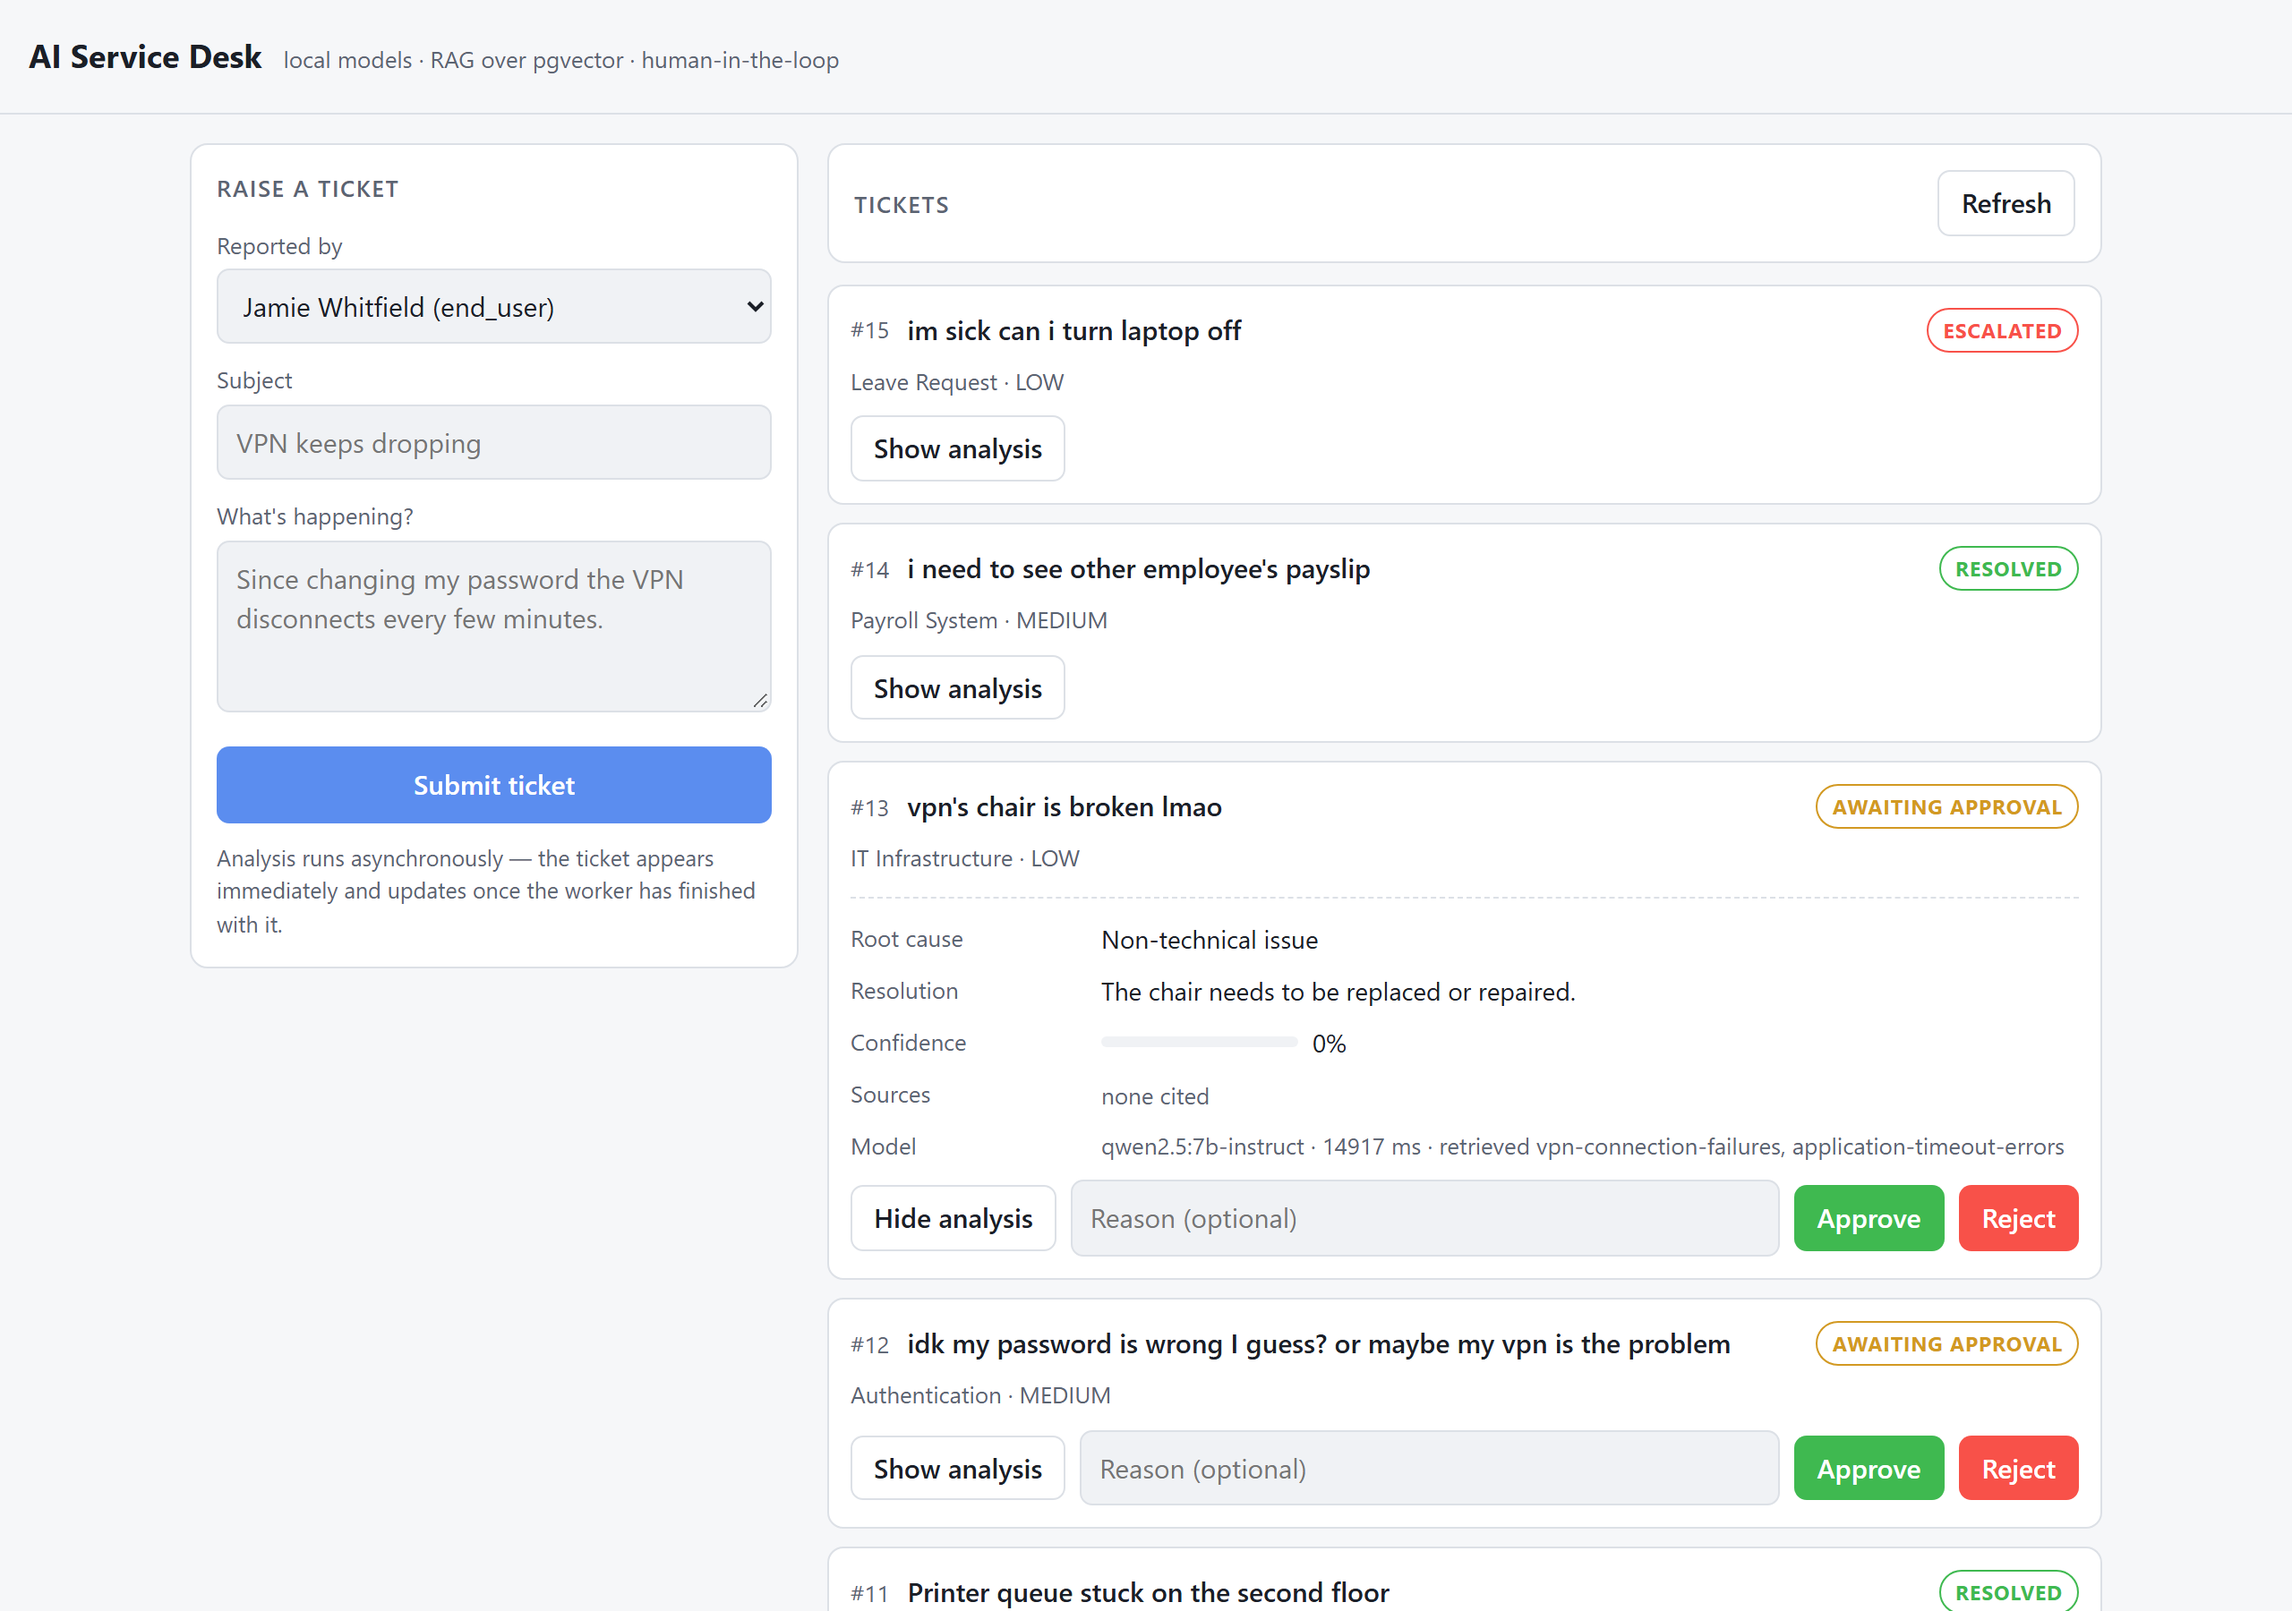
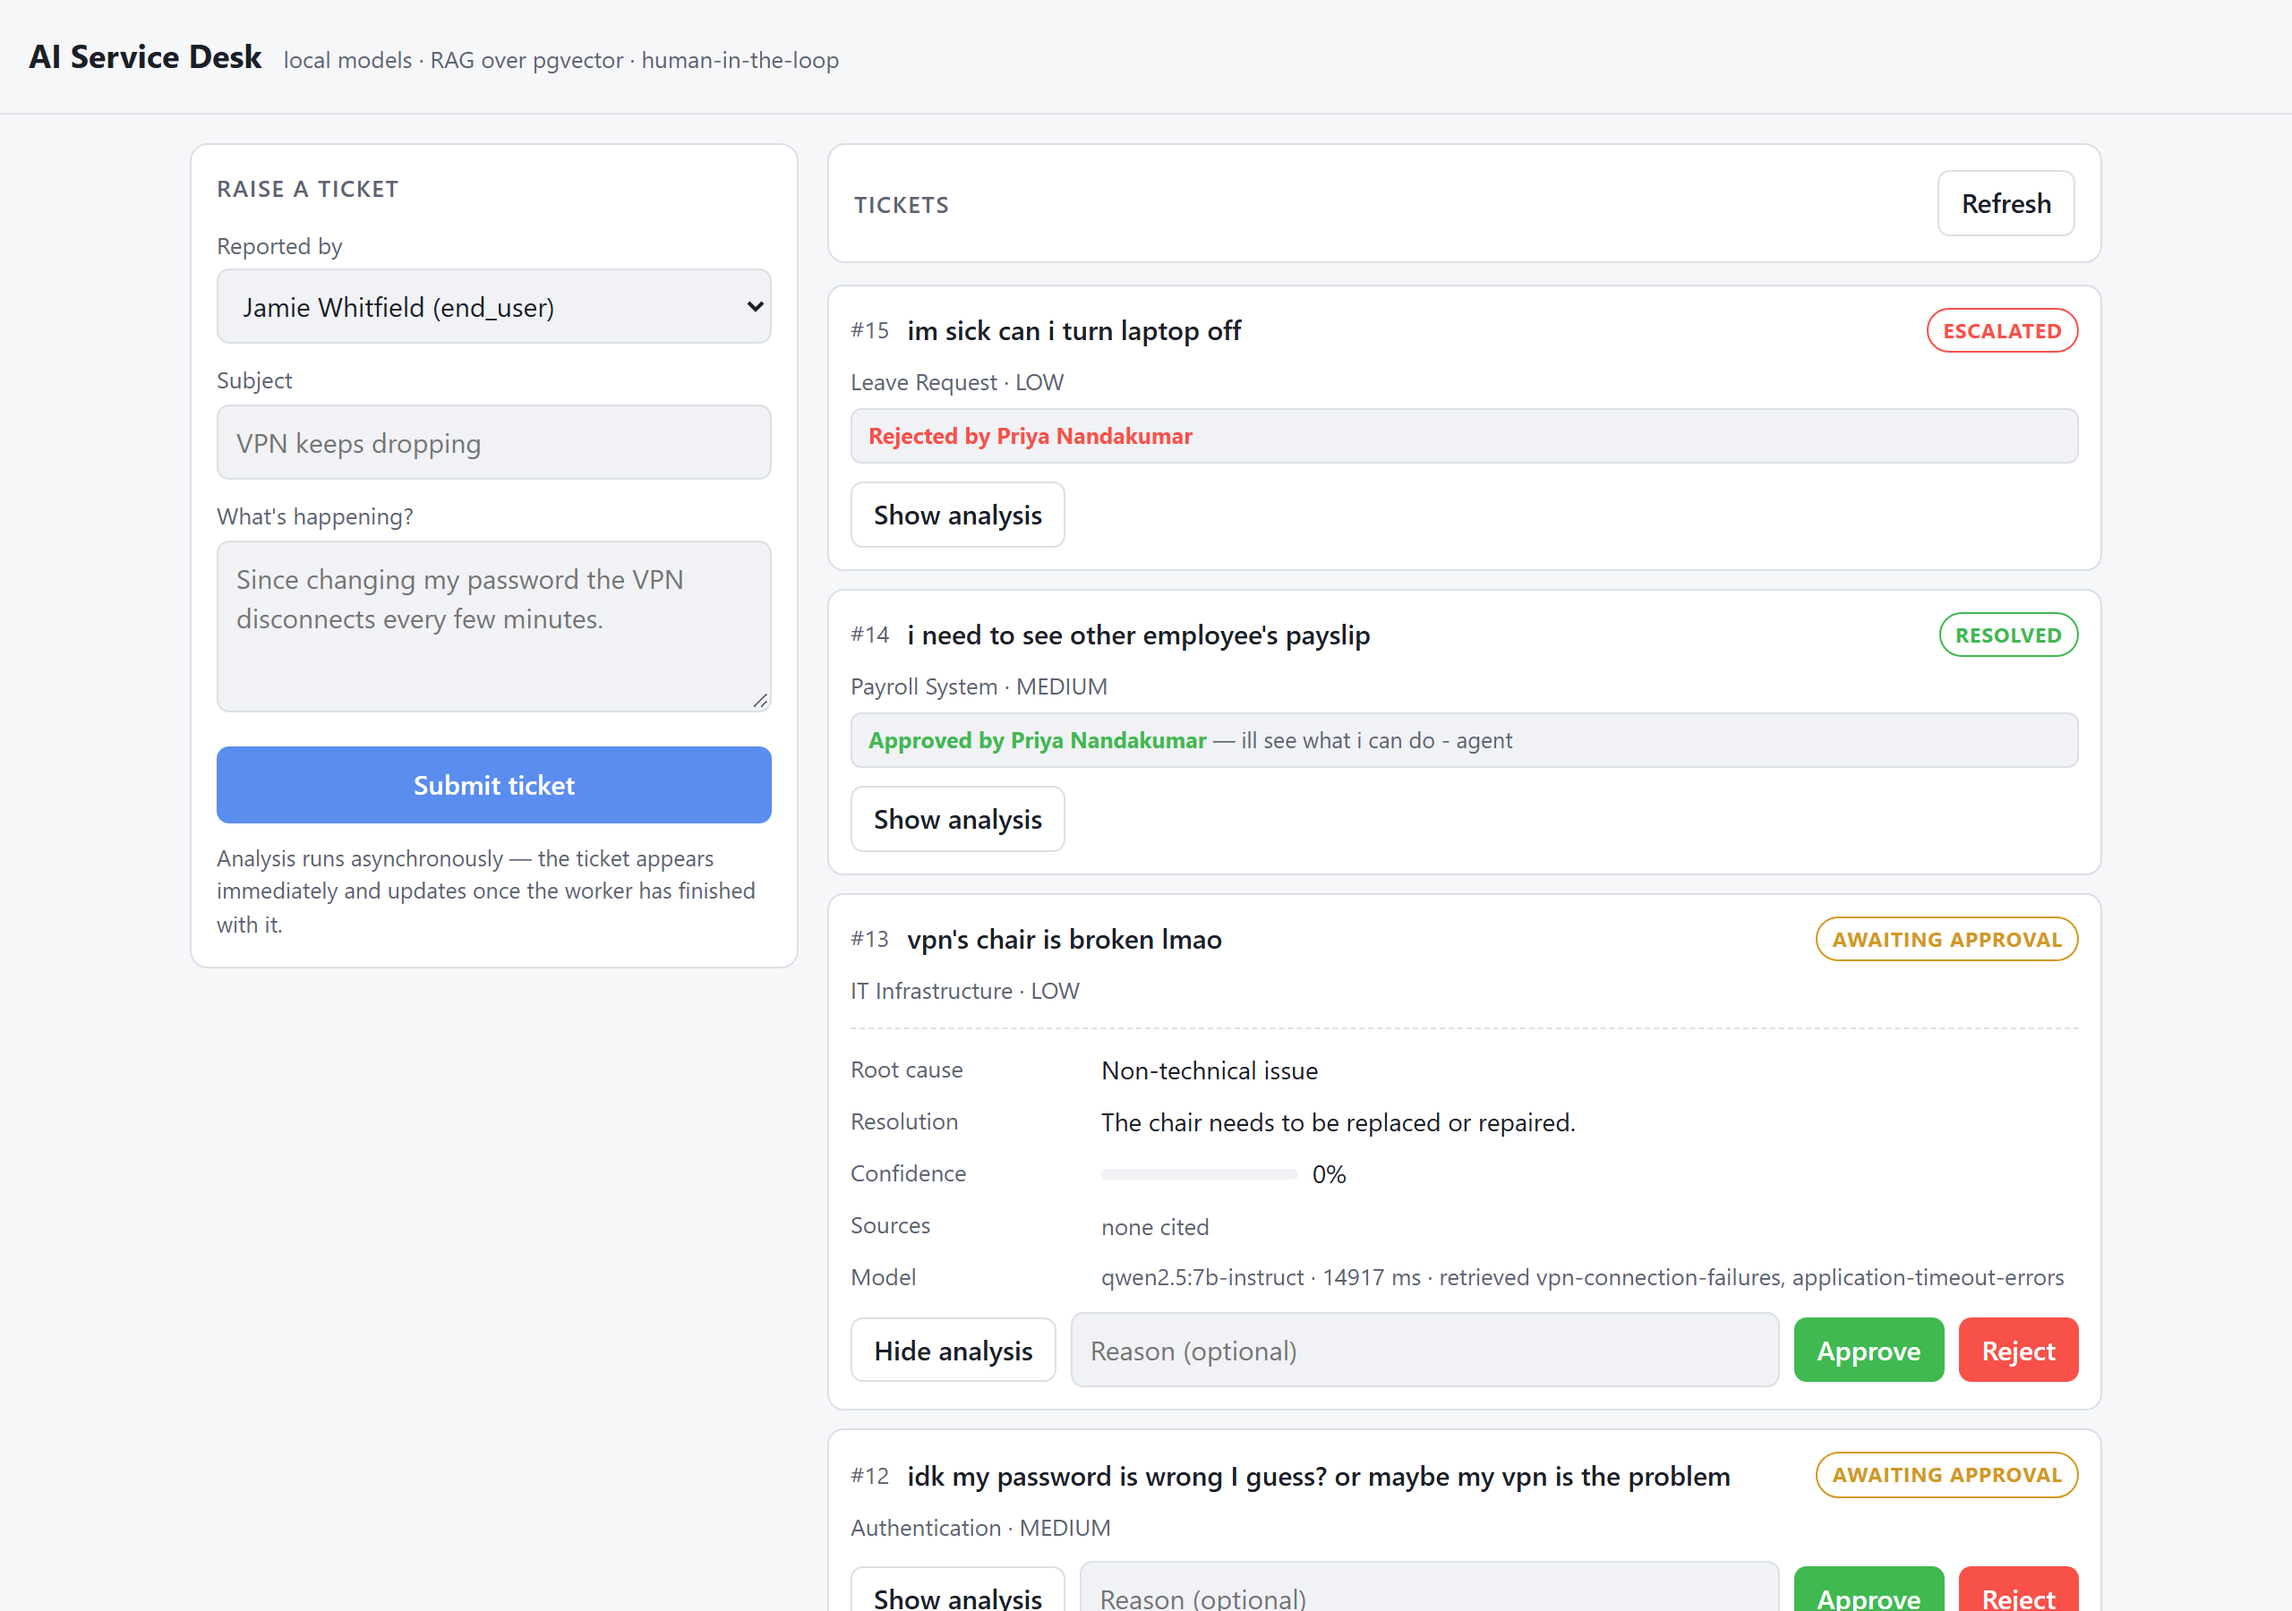
Show who decided a ticket, not just that it was decided
A RESOLVED ticket looked identical whether the AI recommended it or an agent
signed it off. That is the single distinction a human-in-the-loop system most
needs to make visible, and it was only recoverable from the audit log - the
gap became obvious the moment a screenshot of the ticket list was put next to
the audit trail for the same ticket.

GET /approvals returns every decision with the decider's name already joined,
so rendering a list costs one query rather than one per row. The UI now shows
"Approved by <name> - <reason>", "Rejected by <name> - <reason>", or
"Auto-recommended - no human review required" for anything the gate let
through on its own.

Tests cover the name being resolved, and a decision recorded without a
decided_by_id still appearing - an outer join, so an anonymous decision is not
silently dropped from the log.

diff --git a/api/app/static/index.html b/api/app/static/index.html
@@ -72,6 +72,12 @@
   .empty { color: var(--muted); padding: 24px; text-align: center; }
   .err { color: var(--bad); font-size: 13px; margin-top: 8px; }
   .note { color: var(--muted); font-size: 12.5px; margin-top: 10px; }
+  .decided { font-size: 12.5px; margin-top: 6px; padding: 5px 9px; border-radius: 6px; background: var(--panel-2); border: 1px solid var(--line); }
+  .decided b { font-weight: 650; }
+  .decided.approved b { color: var(--ok); }
+  .decided.rejected b { color: var(--bad); }
+  .decided .why { color: var(--muted); }
+  .by-ai { font-size: 12.5px; color: var(--muted); margin-top: 6px; }
 </style>
 </head>
 <body>
@@ -113,6 +119,7 @@
 <script>
 const $ = (s) => document.querySelector(s);
 const analysisCache = {};
+let approvalsByTicket = {};
 
 async function api(path, options) {
   const res = await fetch(path, options);
@@ -154,6 +161,24 @@ function analysisHtml(run) {
   </div>`;
 }
 
+function decisionHtml(t) {
+  const a = approvalsByTicket[t.id];
+  if (a) {
+    // Who actually decided this. Without it, a RESOLVED ticket looks the same
+    // whether the AI recommended it or a person signed it off - which is the
+    // one thing a human-in-the-loop system must not hide.
+    const verb = a.decision === "APPROVED" ? "Approved" : "Rejected";
+    const cls = a.decision === "APPROVED" ? "approved" : "rejected";
+    const who = esc(a.decided_by_name) || "someone";
+    const why = a.reason ? ` <span class="why">— ${esc(a.reason)}</span>` : "";
+    return `<div class="decided ${cls}"><b>${verb} by ${who}</b>${why}</div>`;
+  }
+  if (t.status === "RESOLVED") {
+    return `<div class="by-ai">Auto-recommended — no human review required</div>`;
+  }
+  return "";
+}
+
 function ticketHtml(t, run) {
   const awaiting = t.status === "AWAITING_APPROVAL";
   return `<div class="ticket" data-id="${t.id}">
@@ -163,6 +188,7 @@ function ticketHtml(t, run) {
       <span class="badge b-${esc(t.status)}">${esc(t.status.replace(/_/g, " "))}</span>
     </div>
     <div class="meta">${esc(t.category) || "uncategorised"}${t.priority ? " · " + esc(t.priority) : ""}</div>
+    ${decisionHtml(t)}
     ${analysisHtml(run)}
     <div class="actions">
       <button class="ghost toggle">${analysisCache[t.id] ? "Hide" : "Show"} analysis</button>
@@ -174,7 +200,10 @@ function ticketHtml(t, run) {
 }
 
 async function render() {
-  const tickets = await api("/tickets");
+  const [tickets, approvals] = await Promise.all([api("/tickets"), api("/approvals")]);
+  // Newest first from the API, so the first one seen per ticket is the latest.
+  approvalsByTicket = {};
+  for (const a of approvals) if (!approvalsByTicket[a.ticket_id]) approvalsByTicket[a.ticket_id] = a;
   const el = $("#tickets");
   if (!tickets.length) { el.innerHTML = `<div class="empty">No tickets yet.</div>`; return; }
   el.innerHTML = tickets.map((t) => ticketHtml(t, analysisCache[t.id])).join("");

diff --git a/api/tests/test_approvals_log.py b/api/tests/test_approvals_log.py
@@ -1,0 +1,59 @@
+"""The approvals log.
+
+Exists so a ticket list can distinguish "the AI recommended this" from "a
+person signed this off". Both show as RESOLVED otherwise, and that is the one
+distinction a human-in-the-loop system must not hide - it was invisible in the
+UI until a screenshot made it obvious.
+"""
+
+import uuid
+
+from shared.models import Ticket, TicketStatus, User, UserRole
+
+
+def _awaiting(db_session) -> tuple[Ticket, User]:
+    user = User(name="Dana Reeve", email=f"log-{uuid.uuid4()}@example.com", role=UserRole.AGENT)
+    db_session.add(user)
+    db_session.commit()
+    db_session.refresh(user)
+
+    ticket = Ticket(
+        submitted_by_id=user.id,
+        subject="Needs a decision",
+        description="...",
+        status=TicketStatus.AWAITING_APPROVAL,
+    )
+    db_session.add(ticket)
+    db_session.commit()
+    db_session.refresh(ticket)
+    return ticket, user
+
+
+def test_empty_when_nothing_has_been_decided(client):
+    assert client.get("/approvals").status_code == 200
+
+
+def test_an_approval_appears_with_the_decider_name_resolved(client, db_session):
+    ticket, user = _awaiting(db_session)
+    client.post(
+        f"/tickets/{ticket.id}/approve",
+        json={"decided_by_id": user.id, "reason": "Checked the lock status myself"},
+    )
+
+    entry = next(a for a in client.get("/approvals").json() if a["ticket_id"] == ticket.id)
+
+    assert entry["decision"] == "APPROVED"
+    # The name, not just the id - the list has to render it without a second lookup.
+    assert entry["decided_by_name"] == "Dana Reeve"
+    assert entry["reason"] == "Checked the lock status myself"
+
+
+def test_an_anonymous_decision_still_appears(client, db_session):
+    ticket, _ = _awaiting(db_session)
+    client.post(f"/tickets/{ticket.id}/reject", json={})
+
+    entry = next(a for a in client.get("/approvals").json() if a["ticket_id"] == ticket.id)
+
+    # decided_by_id is optional, so the join must not drop the row.
+    assert entry["decision"] == "REJECTED"
+    assert entry["decided_by_name"] is None

diff --git a/api/app/routers/approvals.py b/api/app/routers/approvals.py
@@ -1,0 +1,40 @@
+from fastapi import APIRouter, Depends
+from sqlalchemy.orm import Session
+
+from app.schemas import ApprovalLogOut
+from shared.db import get_db
+from shared.models import Approval, User
+
+router = APIRouter(prefix="/approvals", tags=["approvals"])
+
+
+@router.get("", response_model=list[ApprovalLogOut])
+def list_approvals(db: Session = Depends(get_db)) -> list[ApprovalLogOut]:
+    """Every human decision, newest first.
+
+    Exists so a list of tickets can show which ones a person decided rather
+    than the AI. Without it, a RESOLVED ticket looks identical whether it was
+    auto-recommended or approved by an agent - which is the single distinction
+    a human-in-the-loop system most needs to make visible.
+
+    One query with a join rather than a lookup per ticket: the caller is
+    rendering a whole list and would otherwise make one request per row.
+    """
+    rows = (
+        db.query(Approval, User.name)
+        .outerjoin(User, User.id == Approval.decided_by_id)
+        .order_by(Approval.created_at.desc())
+        .all()
+    )
+    return [
+        ApprovalLogOut(
+            id=approval.id,
+            ticket_id=approval.ticket_id,
+            decision=approval.decision,
+            decided_by_id=approval.decided_by_id,
+            decided_by_name=name,
+            reason=approval.reason,
+            created_at=approval.created_at,
+        )
+        for approval, name in rows
+    ]

diff --git a/api/app/main.py b/api/app/main.py
@@ -3,7 +3,7 @@ from pathlib import Path
 from fastapi import FastAPI, HTTPException
 from fastapi.responses import FileResponse
 
-from app.routers import services, tickets, users
+from app.routers import approvals, services, tickets, users
 from shared.db import ping_database
 
 app = FastAPI(title="AI Service Desk Agent")
@@ -11,6 +11,7 @@ app = FastAPI(title="AI Service Desk Agent")
 STATIC_DIR = Path(__file__).parent / "static"
 
 app.include_router(tickets.router)
+app.include_router(approvals.router)
 app.include_router(users.router)
 app.include_router(services.router)
 

diff --git a/api/app/schemas.py b/api/app/schemas.py
@@ -107,3 +107,15 @@ class AgentRunOut(BaseModel):
     confidence: float | None
     error: str | None
     created_at: datetime
+
+
+class ApprovalLogOut(BaseModel):
+    """An approval with the decider's name resolved, for list views."""
+
+    id: int
+    ticket_id: int
+    decision: ApprovalDecision
+    decided_by_id: int | None
+    decided_by_name: str | None
+    reason: str | None
+    created_at: datetime

diff --git a/docs/DEMO.md b/docs/DEMO.md
@@ -16,9 +16,21 @@ paid API, no network egress, no API key.
 **What you're looking at:** every ticket and the state it reached. The form on
 the left submits a new one.
 
-**Point at:** the badges. `RESOLVED`, `AWAITING_APPROVAL`, `ESCALATED` — the
-same ticket type does not always land in the same place, because where it lands
-depends on evidence and confidence, not on the category.
+**Point at:** the badges, and the line under each one. `RESOLVED`,
+`AWAITING_APPROVAL`, `ESCALATED` — the same ticket type does not always land in
+the same place, because where it lands depends on evidence and confidence, not
+on the category.
+
+Then point at the difference between *"Approved by Priya Nandakumar — ill see
+what i can do"* and *"Auto-recommended — no human review required"*. Both are
+`RESOLVED`. Only one of them was decided by a person.
+
+**Talking point — "who actually made this decision?"**
+This line was added because a screenshot made its absence obvious: the list
+showed `RESOLVED` identically whether the AI recommended it or an agent signed
+it off, and that is the single distinction a human-in-the-loop system must not
+hide. It comes from `GET /approvals`, one joined query for the whole list
+rather than a lookup per row.
 
 **Talking point — "why is this asynchronous?"**
 A local model takes 2-15 seconds to answer. Doing that inside the HTTP request
@@ -129,9 +141,6 @@ good at: notification, branching, waiting on a person.
 
 Worth saying out loud rather than being caught by them:
 
-- The list shows `RESOLVED` identically whether the AI resolved it or a human
-  approved it. That distinction is the most important one in a
-  human-in-the-loop system and currently only lives in the audit log.
 - The evaluation set still only references the original 8 knowledge articles,
   so the 12 added later are not exercised by it.
 - Category accuracy moved 87.5% -> 81.2% between two runs with no change to
